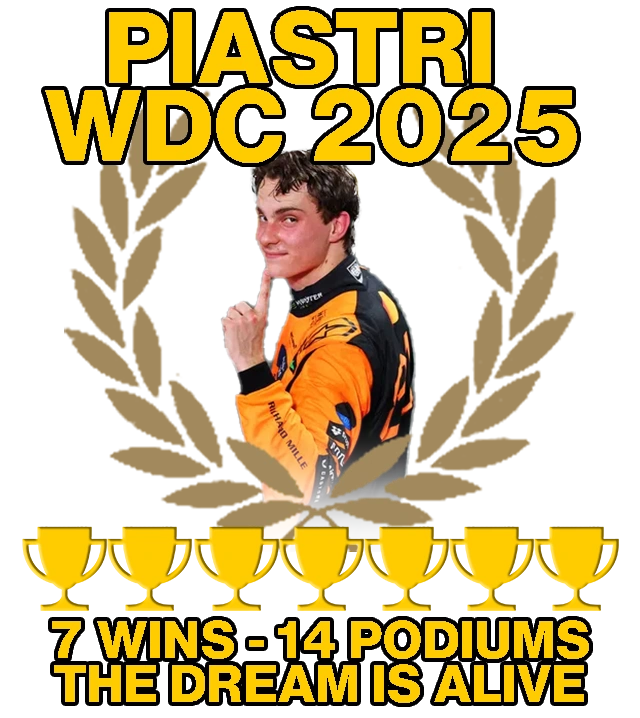
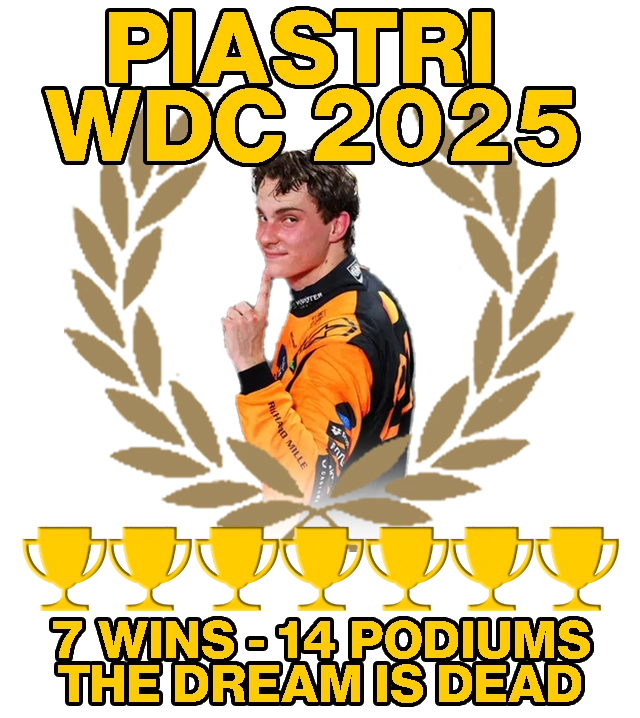
11/09/2025 - Revision 1
-Updated news stories
-Updated Piastri graphic

Changed region(s): [[0.0625, 0.8579, 0.9375, 1.0]]

diff --git a/pages/main/changelog.html b/pages/main/changelog.html
@@ -40,6 +40,9 @@
             <h1>
                 The Changelog 
             </h1>
+            <h2>11/09/25–1 Commit</h2>
+                <li>Updated news stories</li>
+                <li>Updated Piastri graphic</li>
             <h2>11/05/25–1 Commit</h2>
                 <li>Added images of all Phil Collins CD's and cassettes to the Genesis fanpage excluding "Going Back"</li>
                 <li>Reordered "My Copy" headings and images in the Genesis fanpage</li>
